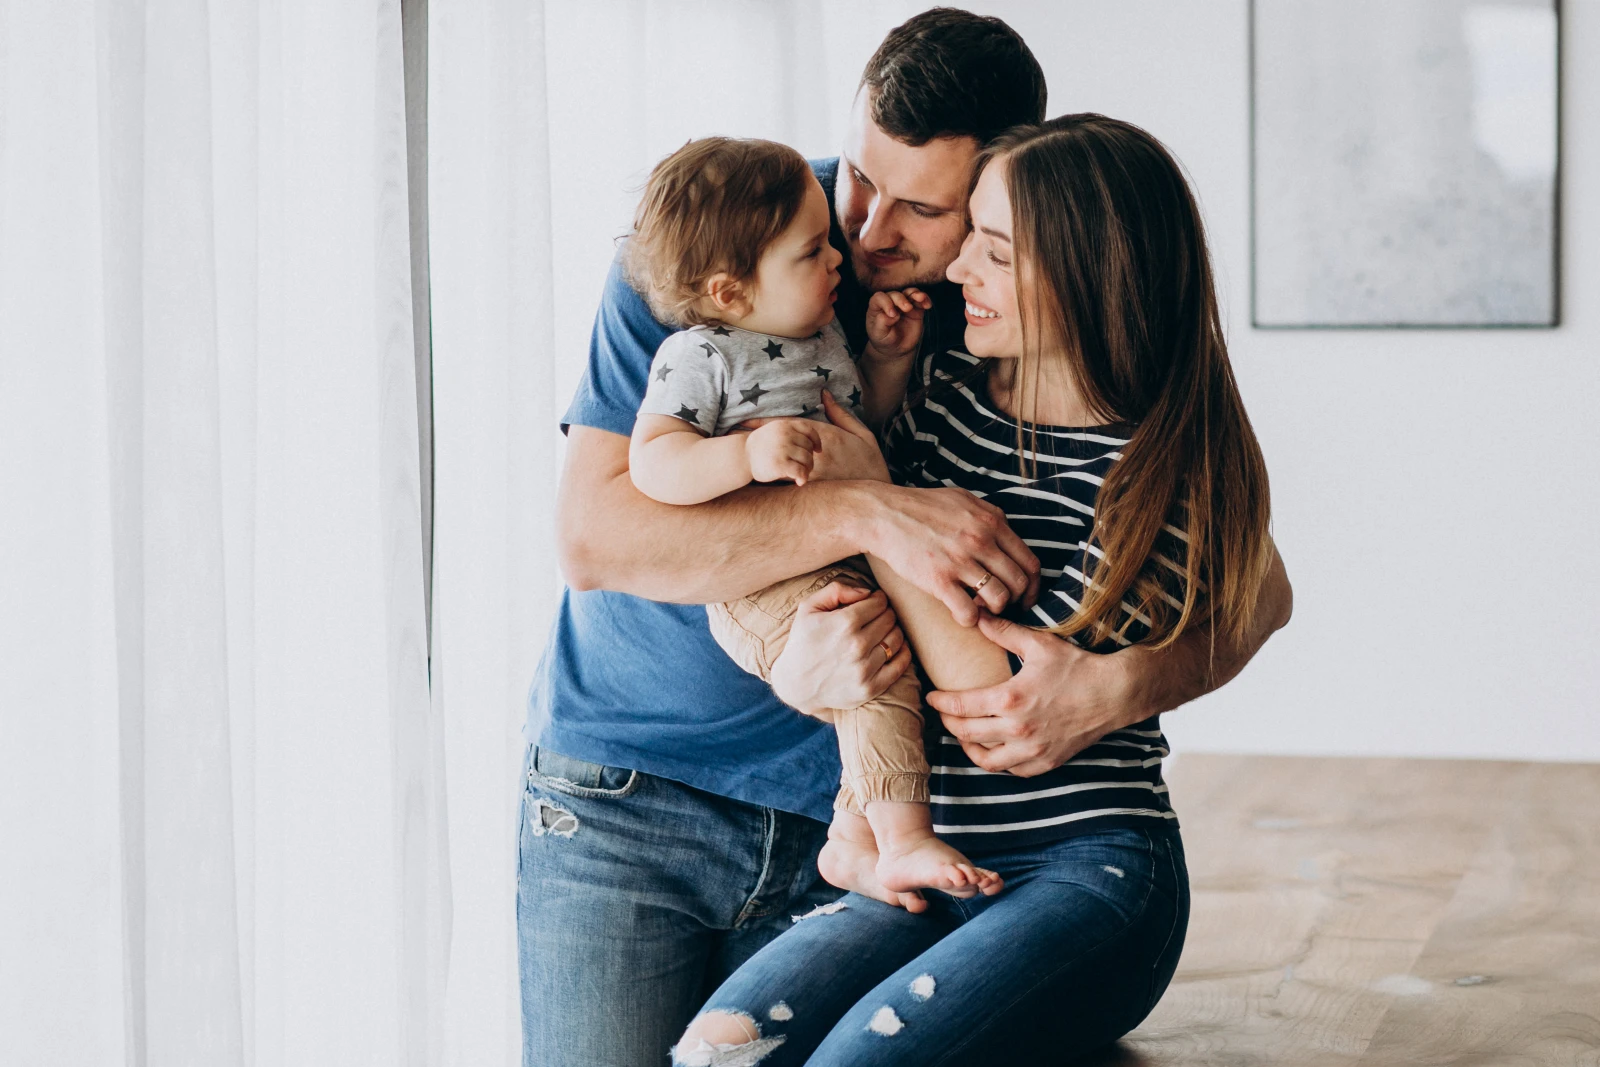
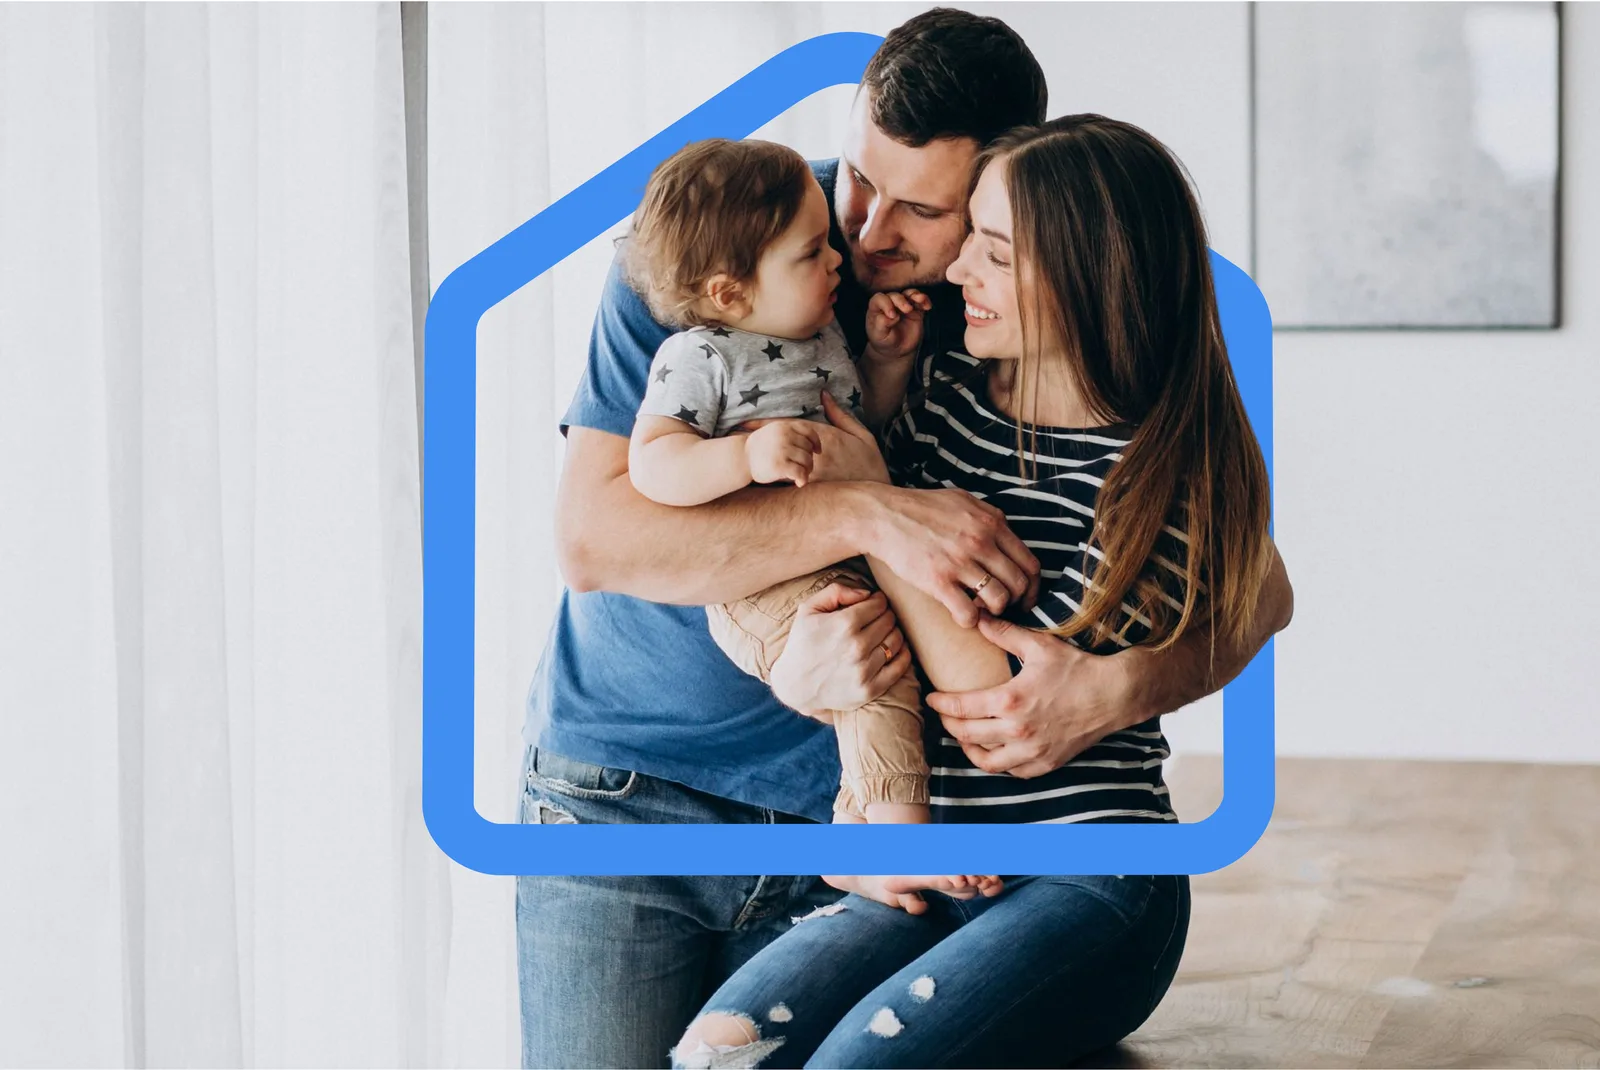
Portada con la casita azul: foto más pequeña y a la derecha, desvanecido redondo y burbujas junto al bebé y la familia

Changed region(s): [[0.25, 0.0309, 0.8125, 0.866], [0.75, 0.2165, 0.8125, 0.4948], [0.3438, 0.9278, 0.5312, 1.0]]

diff --git a/index.html b/index.html
@@ -26,7 +26,7 @@
   <link rel="preconnect" href="https://fonts.googleapis.com">
   <link rel="preconnect" href="https://fonts.gstatic.com" crossorigin>
   <link rel="stylesheet" href="https://fonts.googleapis.com/css2?family=Geist:wght@400;500;600;700&family=Nunito+Sans:opsz,wght@6..12,600;6..12,700;6..12,800&display=swap">
-  <link rel="stylesheet" href="assets/css/styles.css?v=2672289a57">
+  <link rel="stylesheet" href="assets/css/styles.css?v=0b585cd6da">
   <script type="application/ld+json">{"@context":"https://schema.org","@type":"InsuranceAgency","@id":"https://14022025.github.io/angopi-seguros/#agencia","name":"Agencia de Seguros Angopi Ltda.","alternateName":"ANGOPI","slogan":"Te guardamos la espalda.","description":"Agencia de seguros multi-productos en Barranquilla desde 1955. Ayudamos a personas y empresas a proteger lo que más valoran.","foundingDate":"1955","taxID":"900.297.260-8","url":"https://14022025.github.io/angopi-seguros/","logo":"https://14022025.github.io/angopi-seguros/assets/img/logo-angopi.png","image":"https://14022025.github.io/angopi-seguros/assets/img/og-portada.jpg","telephone":"+573013631792","email":"info@angopi.co","address":{"@type":"PostalAddress","streetAddress":"Carrera 64B # 85 – 150, Of. 506, Edificio River View","addressLocality":"Barranquilla","addressRegion":"Atlántico","addressCountry":"CO"},"areaServed":"CO","sameAs":["https://www.facebook.com/angopiltda","https://www.instagram.com/angopi_ltda","https://co.linkedin.com/company/agencia-de-seguros-angopi-ltda","https://www.youtube.com/channel/UCFu8ceEwrFtgullOjb4gHsA"]}</script>
 </head>
 <body>
@@ -65,7 +65,7 @@
 <!-- 02 · Portada: la foto va de arriba abajo, pegada a la derecha y fundida con el blanco -->
 <section class="hero-v" id="inicio" aria-labelledby="hero-titulo">
   <div class="hero-v__media">
-    <img src="assets/img/fotos/hero-3200.webp" srcset="assets/img/fotos/hero-1600.webp 1600w, assets/img/fotos/hero-2400.webp 2400w, assets/img/fotos/hero-3200.webp 3200w" sizes="(min-width: 960px) 90vw, 100vw" alt="Papá, mamá y su bebé se abrazan y sonríen junto a la ventana de su casa" width="3200" height="2133" fetchpriority="high">
+    <img src="assets/img/fotos/hero-3200.webp" srcset="assets/img/fotos/hero-1600.webp 1600w, assets/img/fotos/hero-2400.webp 2400w, assets/img/fotos/hero-3200.webp 3200w" sizes="(min-width: 960px) 90vw, 100vw" alt="Papá, mamá y su bebé se abrazan y sonríen junto a la ventana de su casa" width="3200" height="2141" fetchpriority="high">
     <p class="bubble hero-chat hero-chat--in hero-in" aria-hidden="true">¡Hola! Quiero proteger a mi familia.</p>
     <p class="bubble bubble--right hero-chat hero-chat--out hero-in" aria-hidden="true">¡Con gusto! Te asesoramos sin costo.</p>
   </div>
@@ -376,7 +376,7 @@
 
   <a class="wa-float" href="https://wa.me/573013631792?text=%C2%A1Hola!%20Les%20escribo%20desde%20la%20p%C3%A1gina%20web." target="_blank" rel="noopener" aria-label="Escríbenos por WhatsApp"><svg class="icon icon--fill" viewBox="0 0 24 24" aria-hidden="true" focusable="false"><path d="M17.472 14.382c-.297-.149-1.758-.867-2.03-.967-.273-.099-.471-.148-.67.15-.197.297-.767.966-.94 1.164-.173.199-.347.223-.644.075-.297-.15-1.255-.463-2.39-1.475-.883-.788-1.48-1.761-1.653-2.059-.173-.297-.018-.458.13-.606.134-.133.298-.347.446-.52.149-.174.198-.298.298-.497.099-.198.05-.371-.025-.52-.075-.149-.669-1.612-.916-2.207-.242-.579-.487-.5-.669-.51-.173-.008-.371-.01-.57-.01-.198 0-.52.074-.792.372-.272.297-1.04 1.016-1.04 2.479 0 1.462 1.065 2.875 1.213 3.074.149.198 2.096 3.2 5.077 4.487.709.306 1.262.489 1.694.625.712.227 1.36.195 1.871.118.571-.085 1.758-.719 2.006-1.413.248-.694.248-1.289.173-1.413-.074-.124-.272-.198-.57-.347m-5.421 7.403h-.004a9.87 9.87 0 0 1-5.031-1.378l-.361-.214-3.741.982.998-3.648-.235-.374a9.86 9.86 0 0 1-1.51-5.26c.001-5.45 4.436-9.884 9.888-9.884 2.64 0 5.122 1.03 6.988 2.898a9.825 9.825 0 0 1 2.893 6.994c-.003 5.45-4.437 9.884-9.885 9.884m8.413-18.297A11.815 11.815 0 0 0 12.05 0C5.495 0 .16 5.335.157 11.892c0 2.096.547 4.142 1.588 5.945L.057 24l6.305-1.654a11.882 11.882 0 0 0 5.683 1.448h.005c6.554 0 11.89-5.335 11.893-11.893a11.821 11.821 0 0 0-3.48-8.413Z"/></svg></a>
 
-  <script src="assets/js/main.js?v=2672289a57" defer></script>
+  <script src="assets/js/main.js?v=0b585cd6da" defer></script>
   
 </body>
 </html>

diff --git a/politica-de-datos/index.html b/politica-de-datos/index.html
@@ -26,7 +26,7 @@
   <link rel="preconnect" href="https://fonts.googleapis.com">
   <link rel="preconnect" href="https://fonts.gstatic.com" crossorigin>
   <link rel="stylesheet" href="https://fonts.googleapis.com/css2?family=Geist:wght@400;500;600;700&family=Nunito+Sans:opsz,wght@6..12,600;6..12,700;6..12,800&display=swap">
-  <link rel="stylesheet" href="../assets/css/styles.css?v=2672289a57">
+  <link rel="stylesheet" href="../assets/css/styles.css?v=0b585cd6da">
   <script type="application/ld+json">{"@context":"https://schema.org","@type":"BreadcrumbList","itemListElement":[{"@type":"ListItem","position":1,"name":"Inicio","item":"https://14022025.github.io/angopi-seguros/"},{"@type":"ListItem","position":2,"name":"Política de tratamiento de datos","item":"https://14022025.github.io/angopi-seguros/politica-de-datos/"}]}</script>
 </head>
 <body>
@@ -179,7 +179,7 @@
 
   <a class="wa-float" href="https://wa.me/573013631792?text=%C2%A1Hola!%20Les%20escribo%20desde%20la%20p%C3%A1gina%20web." target="_blank" rel="noopener" aria-label="Escríbenos por WhatsApp"><svg class="icon icon--fill" viewBox="0 0 24 24" aria-hidden="true" focusable="false"><path d="M17.472 14.382c-.297-.149-1.758-.867-2.03-.967-.273-.099-.471-.148-.67.15-.197.297-.767.966-.94 1.164-.173.199-.347.223-.644.075-.297-.15-1.255-.463-2.39-1.475-.883-.788-1.48-1.761-1.653-2.059-.173-.297-.018-.458.13-.606.134-.133.298-.347.446-.52.149-.174.198-.298.298-.497.099-.198.05-.371-.025-.52-.075-.149-.669-1.612-.916-2.207-.242-.579-.487-.5-.669-.51-.173-.008-.371-.01-.57-.01-.198 0-.52.074-.792.372-.272.297-1.04 1.016-1.04 2.479 0 1.462 1.065 2.875 1.213 3.074.149.198 2.096 3.2 5.077 4.487.709.306 1.262.489 1.694.625.712.227 1.36.195 1.871.118.571-.085 1.758-.719 2.006-1.413.248-.694.248-1.289.173-1.413-.074-.124-.272-.198-.57-.347m-5.421 7.403h-.004a9.87 9.87 0 0 1-5.031-1.378l-.361-.214-3.741.982.998-3.648-.235-.374a9.86 9.86 0 0 1-1.51-5.26c.001-5.45 4.436-9.884 9.888-9.884 2.64 0 5.122 1.03 6.988 2.898a9.825 9.825 0 0 1 2.893 6.994c-.003 5.45-4.437 9.884-9.885 9.884m8.413-18.297A11.815 11.815 0 0 0 12.05 0C5.495 0 .16 5.335.157 11.892c0 2.096.547 4.142 1.588 5.945L.057 24l6.305-1.654a11.882 11.882 0 0 0 5.683 1.448h.005c6.554 0 11.89-5.335 11.893-11.893a11.821 11.821 0 0 0-3.48-8.413Z"/></svg></a>
 
-  <script src="../assets/js/main.js?v=2672289a57" defer></script>
+  <script src="../assets/js/main.js?v=0b585cd6da" defer></script>
   
 </body>
 </html>

diff --git a/404.html b/404.html
@@ -26,7 +26,7 @@
   <link rel="preconnect" href="https://fonts.googleapis.com">
   <link rel="preconnect" href="https://fonts.gstatic.com" crossorigin>
   <link rel="stylesheet" href="https://fonts.googleapis.com/css2?family=Geist:wght@400;500;600;700&family=Nunito+Sans:opsz,wght@6..12,600;6..12,700;6..12,800&display=swap">
-  <link rel="stylesheet" href="https://14022025.github.io/angopi-seguros/assets/css/styles.css?v=2672289a57">
+  <link rel="stylesheet" href="https://14022025.github.io/angopi-seguros/assets/css/styles.css?v=0b585cd6da">
   
 </head>
 <body>
@@ -124,7 +124,7 @@
 
   <a class="wa-float" href="https://wa.me/573013631792?text=%C2%A1Hola!%20Les%20escribo%20desde%20la%20p%C3%A1gina%20web." target="_blank" rel="noopener" aria-label="Escríbenos por WhatsApp"><svg class="icon icon--fill" viewBox="0 0 24 24" aria-hidden="true" focusable="false"><path d="M17.472 14.382c-.297-.149-1.758-.867-2.03-.967-.273-.099-.471-.148-.67.15-.197.297-.767.966-.94 1.164-.173.199-.347.223-.644.075-.297-.15-1.255-.463-2.39-1.475-.883-.788-1.48-1.761-1.653-2.059-.173-.297-.018-.458.13-.606.134-.133.298-.347.446-.52.149-.174.198-.298.298-.497.099-.198.05-.371-.025-.52-.075-.149-.669-1.612-.916-2.207-.242-.579-.487-.5-.669-.51-.173-.008-.371-.01-.57-.01-.198 0-.52.074-.792.372-.272.297-1.04 1.016-1.04 2.479 0 1.462 1.065 2.875 1.213 3.074.149.198 2.096 3.2 5.077 4.487.709.306 1.262.489 1.694.625.712.227 1.36.195 1.871.118.571-.085 1.758-.719 2.006-1.413.248-.694.248-1.289.173-1.413-.074-.124-.272-.198-.57-.347m-5.421 7.403h-.004a9.87 9.87 0 0 1-5.031-1.378l-.361-.214-3.741.982.998-3.648-.235-.374a9.86 9.86 0 0 1-1.51-5.26c.001-5.45 4.436-9.884 9.888-9.884 2.64 0 5.122 1.03 6.988 2.898a9.825 9.825 0 0 1 2.893 6.994c-.003 5.45-4.437 9.884-9.885 9.884m8.413-18.297A11.815 11.815 0 0 0 12.05 0C5.495 0 .16 5.335.157 11.892c0 2.096.547 4.142 1.588 5.945L.057 24l6.305-1.654a11.882 11.882 0 0 0 5.683 1.448h.005c6.554 0 11.89-5.335 11.893-11.893a11.821 11.821 0 0 0-3.48-8.413Z"/></svg></a>
 
-  <script src="https://14022025.github.io/angopi-seguros/assets/js/main.js?v=2672289a57" defer></script>
+  <script src="https://14022025.github.io/angopi-seguros/assets/js/main.js?v=0b585cd6da" defer></script>
   
 </body>
 </html>

diff --git a/assets/css/styles.css b/assets/css/styles.css
@@ -1405,8 +1405,8 @@ h4.svc__kicker { letter-spacing: 0; }
 .hero-chat--out.hero-in { animation-delay: 1.5s; }
 @media (max-width: 959px) {
   .hero-chat { max-width: 210px; padding: 10px 14px; font-size: 0.8125rem; }
-  .hero-chat--in { top: 58%; right: 4%; }
-  .hero-chat--out { top: calc(58% + 72px); right: 8%; }
+  .hero-chat--in { top: 40%; left: 8%; right: auto; }
+  .hero-chat--out { top: 66%; right: 6%; }
 }
 
 /* Equipo: cada persona en un círculo azul, con la cabeza saliendo por arriba */
@@ -1414,3 +1414,19 @@ h4.svc__kicker { letter-spacing: 0; }
 #equipo .avatar::before { content: ""; position: absolute; inset: 0; border-radius: 50%; background: var(--blue); }
 #equipo .avatar__clip { position: absolute; left: 0; right: 0; bottom: 0; height: 160%; overflow: hidden; border-radius: 0 0 55px 55px; }
 #equipo .avatar img { position: absolute; bottom: -4%; left: -24%; width: 148%; max-width: none; height: auto; border-radius: 0; background: none; }
+
+/* Portada con la casita azul: foto más pequeña, corrida a la derecha y con un desvanecido redondo hacia el blanco */
+@media (min-width: 960px) {
+  .hero-v__media { top: 72px; bottom: 24px; right: -2%; width: 56%; }
+  .hero-v__media::before, .hero-v__media::after { display: none; }
+  .hero-v__media img {
+    object-position: 50% 40%;
+    -webkit-mask-image: radial-gradient(ellipse 54% 54% at 52% 48%, #000 60%, transparent 100%);
+    mask-image: radial-gradient(ellipse 54% 54% at 52% 48%, #000 60%, transparent 100%);
+  }
+}
+@media (min-width: 960px) {
+  /* La persona escribe debajo de la cabecita del bebé; Angopi responde más abajo, dentro de la familia */
+  .hero-chat--in { top: 37%; left: 22%; right: auto; }
+  .hero-chat--out { top: 64%; right: 13%; }
+}

diff --git a/src/pages/index.html b/src/pages/index.html
@@ -10,7 +10,7 @@ light: true
 <!-- 02 · Portada: la foto va de arriba abajo, pegada a la derecha y fundida con el blanco -->
 <section class="hero-v" id="inicio" aria-labelledby="hero-titulo">
   <div class="hero-v__media">
-    {{photo:hero|Papá, mamá y su bebé se abrazan y sonríen junto a la ventana de su casa|(min-width: 960px) 90vw, 100vw|width="3200" height="2133" fetchpriority="high"}}
+    {{photo:hero|Papá, mamá y su bebé se abrazan y sonríen junto a la ventana de su casa|(min-width: 960px) 90vw, 100vw|width="3200" height="2141" fetchpriority="high"}}
     <p class="bubble hero-chat hero-chat--in hero-in" aria-hidden="true">¡Hola! Quiero proteger a mi familia.</p>
     <p class="bubble bubble--right hero-chat hero-chat--out hero-in" aria-hidden="true">¡Con gusto! Te asesoramos sin costo.</p>
   </div>
